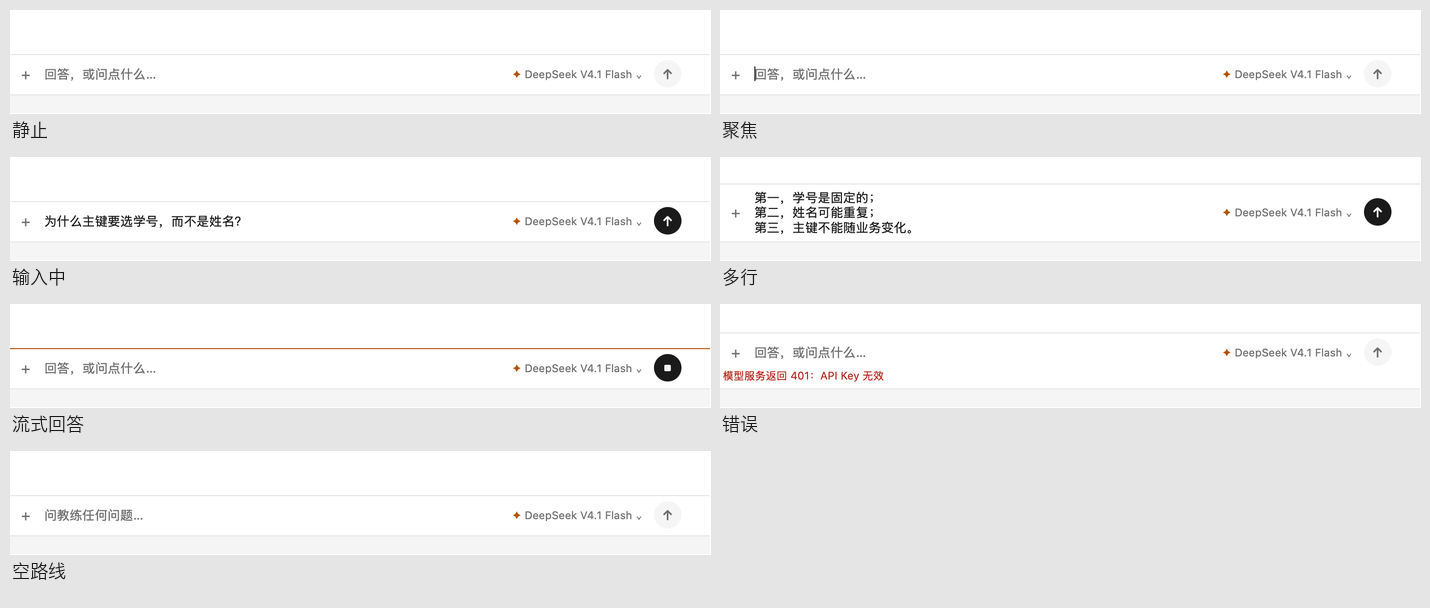
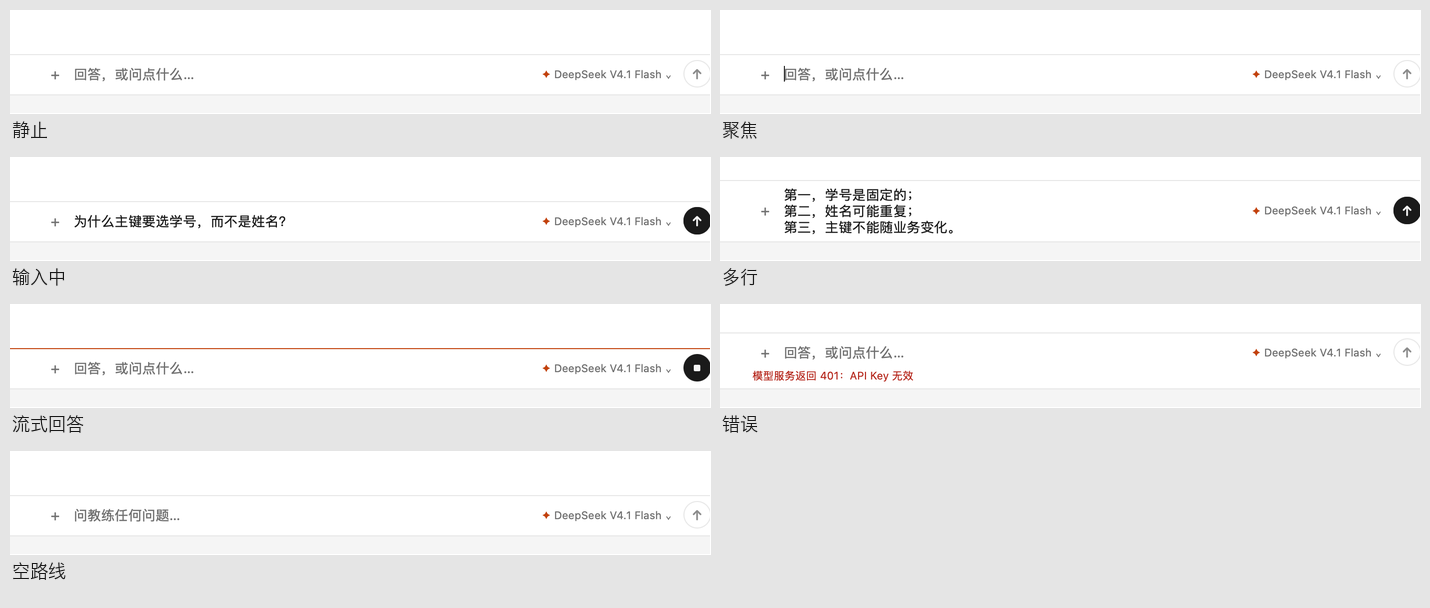
Give the tutor workspace a reading-first visual system
- serif lesson typography and amber margin rules
- heatmap panel with headline mastery, segmented progress, and cell detail
- warmer amber ramp across the workspace

diff --git a/desktop/chat.go b/desktop/chat.go
@@ -41,7 +41,7 @@ func (a *app) mdOptions(t *ui.Theme) *markdown.Options {
 	p := paletteFor(t.Dark)
 	theme := markdown.DefaultTheme(t)
 	theme.FontSize = fsRead
-	theme.LineHeight = 1.65
+	theme.LineHeight = 1.72
 	theme.Font = uiFont
 	theme.Text = p.body
 	theme.Muted = p.muted
@@ -56,6 +56,27 @@ func (a *app) mdOptions(t *ui.Theme) *markdown.Options {
 	theme.BlockSpacing = 0.6
 	a.md.Theme = theme
 	return a.md
+}
+
+func (a *app) mdOptionsSerif(t *ui.Theme) *markdown.Options {
+	p := paletteFor(t.Dark)
+	theme := markdown.DefaultTheme(t)
+	theme.FontSize = fsRead
+	theme.LineHeight = 1.8
+	theme.Font = serifFont
+	theme.Text = p.body
+	theme.Muted = p.muted
+	theme.Link = p.blue
+	theme.Strong = p.text
+	theme.Code = p.text
+	theme.CodeFont = monoFont
+	theme.CodeBackground = p.fieldBg
+	theme.CodeBlockBackground = p.surface2
+	theme.CodeBlockBorder = p.surface2
+	theme.CodeBlockRadius = 4
+	theme.BlockSpacing = 0.7
+	a.mdSerif.Theme = theme
+	return a.mdSerif
 }
 
 func (a *app) main(c *ui.Context, t *ui.Theme) {
@@ -81,7 +102,7 @@ func (a *app) topbar(c *ui.Context, t *ui.Theme) {
 			if title == "" {
 				title = "新对话"
 			}
-			ui.Text(c, title).FontSize(13).FontWeight(600).TextColor(p.text).MaxLines(1).DragWindow()
+			ui.Text(c, title).FontSize(fsRead).FontWeight(600).TextColor(p.text).MaxLines(1).DragWindow()
 			ui.Box(c).Grow(1).FillHeight().DragWindow()
 			if a.streaming {
 				ui.Spinner(c)
@@ -140,7 +161,7 @@ func (a *app) emptyChat(c *ui.Context, t *ui.Theme) {
 	p := paletteFor(t.Dark)
 	ui.Column(c).FillWidth().AlignItems(ui.Center).Gap(8).Children(func() {
 		ui.Text(c, "✦").FontSize(16).TextColor(p.blue)
-		ui.Text(c, "开始一段新的学习").FontSize(fsSection).FontWeight(600).TextColor(p.text)
+		serif(c, "开始一段新的学习").FontSize(fsDisplay).FontWeight(600).TextColor(p.text)
 		ui.Text(c, "告诉教练你想学什么，路线和热力图会在聊天里长出来。").
 			FontSize(fsUI).TextColor(p.muted).TextAlign(ui.Center).MaxWidth(420).LineHeight(1.5)
 		ui.Row(c).Gap(6).PaddingY(4).Children(func() {
@@ -190,13 +211,13 @@ func (a *app) lessonSection(c *ui.Context, t *ui.Theme, msg store.Message) {
 	p := paletteFor(t.Dark)
 	var payload lessonPayload
 	_ = json.Unmarshal([]byte(msg.Payload), &payload)
-	ui.Column(c).FillWidth().BorderWidth(1, 0, 0, 0).BorderColor(p.hairline).
-		Padding(10, 0).Gap(6).Children(func() {
+	ui.Column(c).FillWidth().BorderWidth(0, 0, 0, 2).BorderColor(p.blue).
+		Padding(8, 0, 2, 14).Gap(8).Children(func() {
 		a.kicker(c, t, payload.Kicker)
 		if payload.Title != "" {
-			ui.Text(c, payload.Title).FontSize(fsTitle).FontWeight(600).LineHeight(1.35).TextColor(p.text)
+			serif(c, payload.Title).FontSize(fsTitle).FontWeight(600).LineHeight(1.35).TextColor(p.text)
 		}
-		markdown.View(c, payload.Body, a.mdOptions(t)).FillWidth()
+		markdown.View(c, payload.Body, a.mdOptionsSerif(t)).FillWidth()
 		if payload.Code != "" {
 			ui.Box(c).FillWidth().Background(p.fieldBg).Radius(radiusBadge).Padding(8, 10).Children(func() {
 				ui.Text(c, payload.Code).FontSize(fsCaption).Font(monoFont).TextColor(p.body)
@@ -207,8 +228,8 @@ func (a *app) lessonSection(c *ui.Context, t *ui.Theme, msg store.Message) {
 				BorderWidth(0, 0, 0, 2).BorderColor(p.blue).Padding(8, 10).Children(func() {
 				ui.Column(c).FillWidth().Gap(3).Children(func() {
 					ui.Text(c, "主动回忆").FontSize(fsCaption).FontWeight(600).TextColor(p.blue)
-					ui.Text(c, payload.Recall.Prompt).FontSize(fsUI).FontWeight(600).TextColor(p.text)
-					ui.Text(c, "参考答案："+payload.Recall.Answer).FontSize(fsCaption).TextColor(p.muted)
+					ui.Text(c, payload.Recall.Prompt).FontSize(fsRead).FontWeight(600).TextColor(p.text)
+					ui.Text(c, "参考答案："+payload.Recall.Answer).FontSize(fsUI).TextColor(p.muted)
 				})
 			})
 		}
@@ -228,14 +249,14 @@ func (a *app) quizSection(c *ui.Context, t *ui.Theme, msg store.Message) {
 	p := paletteFor(t.Dark)
 	var payload quizPayload
 	_ = json.Unmarshal([]byte(msg.Payload), &payload)
-	ui.Column(c).FillWidth().BorderWidth(1, 0, 0, 0).BorderColor(p.hairline).
-		Padding(10, 0).Gap(8).Children(func() {
+	ui.Column(c).FillWidth().BorderWidth(0, 0, 0, 2).BorderColor(p.blue).
+		Padding(8, 0, 2, 14).Gap(8).Children(func() {
 		a.kicker(c, t, "小测")
 		for qi, q := range payload.Questions {
 			chosen, answered := a.quizChoices[q.ID]
 			ui.Column(c).FillWidth().Gap(4).Children(func() {
-				ui.Textf(c, "%d. %s", qi+1, q.Prompt).FontSize(fsRead).FontWeight(600).
-					LineHeight(1.5).TextColor(p.text)
+				serif(c, fmt.Sprintf("%d. %s", qi+1, q.Prompt)).FontSize(fsTitle).FontWeight(600).
+					LineHeight(1.45).TextColor(p.text)
 				for oi, option := range q.Options {
 					letter := string(rune('A' + oi))
 					correct := answered && oi == q.AnswerIndex
@@ -253,7 +274,7 @@ func (a *app) quizSection(c *ui.Context, t *ui.Theme, msg store.Message) {
 						Padding(3, 6).Radius(radiusBadge).Background(bg).Children(func() {
 						ui.Row(c).FillWidth().Gap(7).AlignItems(ui.Center).Children(func() {
 							ui.Text(c, letter).FontSize(fsCaption).Font(monoFont).TextColor(fg)
-							ui.Text(c, option).Grow(1).FontSize(fsUI).TextColor(fg).MaxLines(2)
+							ui.Text(c, option).Grow(1).FontSize(fsRead).TextColor(fg).MaxLines(2)
 							if correct {
 								ui.Text(c, "正确答案").FontSize(fsCaption).TextColor(p.blue)
 							} else if wrong {

diff --git a/desktop/theme.go b/desktop/theme.go
@@ -2,16 +2,21 @@ package main
 
 import "github.com/egoist/mygo/ui"
 
-// Type scale: 12 / 14 / 16 / 20 / 24 / 30.
-// Compact editor scale: meta 11 / UI 12 / reading 13 / title 14 / section 16.
+// Type scale: meta 11 / UI 12 / reading 14 / title 17 / section 20 / display 24.
 const (
 	fsCaption float32 = 11
 	fsUI      float32 = 12
-	fsRead    float32 = 13
-	fsTitle   float32 = 14
-	fsSection float32 = 16
-	fsDisplay float32 = 18
+	fsRead    float32 = 14
+	fsTitle   float32 = 17
+	fsSection float32 = 20
+	fsDisplay float32 = 24
 )
+
+const serifFont = "Songti SC, Noto Serif SC, Source Han Serif SC, Georgia, serif"
+
+func serif(c *ui.Context, s string) ui.Element {
+	return ui.Text(c, s).Font(serifFont)
+}
 
 // Shadcn radii: rounded-lg 8 (cards), rounded-md 6 (controls), rounded-sm 4 (badges).
 const (
@@ -21,9 +26,8 @@ const (
 )
 
 const (
-	uiFont    = "system-ui"
-	serifFont = "Songti SC, Noto Serif SC, Source Han Serif SC, Georgia, serif"
-	monoFont  = "SF Mono, Menlo, Consolas, monospace"
+	uiFont   = "system-ui"
+	monoFont = "SF Mono, Menlo, Consolas, monospace"
 )
 
 type palette struct {
@@ -76,10 +80,10 @@ func paletteFor(dark bool) palette {
 			faint:          ui.Hex("#8A8A8A"),
 			hairline:       ui.Hex("#303030"),
 			borderStrong:   ui.Hex("#4A4A4A"),
-			blue:           ui.Hex("#F59E0B"),
-			blueSoft:       ui.Hex("#3A2A14"),
+			blue:           ui.Hex("#FB923C"),
+			blueSoft:       ui.Hex("#3A2418"),
 			recallBg:       ui.Hex("#2A2118"),
-			blueLine:       ui.Hex("#5A3E1B"),
+			blueLine:       ui.Hex("#6B3F24"),
 			rust:           ui.Hex("#F97066"),
 			green:          ui.Hex("#4ADE80"),
 			rustSoft:       ui.Hex("#3A1D1A"),
@@ -111,9 +115,9 @@ func paletteFor(dark bool) palette {
 		faint:          ui.Hex("#8C8C8C"),
 		hairline:       ui.Hex("#E6E6E6"),
 		borderStrong:   ui.Hex("#D2D2D2"),
-		blue:           ui.Hex("#B45309"),
-		blueSoft:       ui.Hex("#FDF4EA"),
-		blueLine:       ui.Hex("#EAD5BF"),
+		blue:           ui.Hex("#C2410C"),
+		blueSoft:       ui.Hex("#FFF4ED"),
+		blueLine:       ui.Hex("#FED7AA"),
 		rust:           ui.Hex("#B42318"),
 		green:          ui.Hex("#16A34A"),
 		rustSoft:       ui.Hex("#FEF3F2"),
@@ -169,27 +173,23 @@ func appTheme(dark bool) *ui.Theme {
 	return t
 }
 
-func serif(c *ui.Context, s string) ui.Element {
-	return ui.Text(c, s).Font(serifFont)
-}
-
 // heatStyle returns the fill, border and text colors of a mastery tile.
 func heatStyle(mastery int, dark bool) (ui.Color, ui.Color, ui.Color) {
 	p := paletteFor(dark)
 	switch mastery {
 	case 1:
 		if dark {
-			return ui.Hex("#3A2C1C"), ui.Hex("#5A422A"), ui.Hex("#F2D9BC")
+			return ui.Hex("#442A1B"), ui.Hex("#6B4226"), ui.Hex("#F8C9A8")
 		}
-		return ui.Hex("#F5E2CC"), ui.Hex("#EAD5BF"), ui.Hex("#8A4B16")
+		return ui.Hex("#FCE7D6"), ui.Hex("#F5C7A5"), ui.Hex("#9A3412")
 	case 2:
 		if dark {
-			return ui.Hex("#6B4A24"), ui.Hex("#8A6434"), ui.Hex("#F7E6D2")
+			return ui.Hex("#8A4B24"), ui.Hex("#A65D2E"), ui.Hex("#FBE0C8")
 		}
-		return ui.Hex("#E4B988"), ui.Hex("#DDB98D"), ui.Hex("#6B3A10")
+		return ui.Hex("#F5B48A"), ui.Hex("#EA9A6A"), ui.Hex("#7C2D12")
 	case 3:
 		if dark {
-			return ui.Hex("#D97706"), ui.Hex("#D97706"), ui.Hex("#FFFFFF")
+			return ui.Hex("#EA580C"), ui.Hex("#EA580C"), ui.Hex("#FFFFFF")
 		}
 		return p.blue, p.blue, ui.Hex("#FFFFFF")
 	default:

diff --git a/desktop/route.go b/desktop/route.go
@@ -50,14 +50,28 @@ func (a *app) heatmapSection(c *ui.Context, t *ui.Theme, node store.Node) {
 		}
 	}
 	ui.Column(c).FillWidth().Gap(8).Children(func() {
-		ui.Text(c, node.Title).FontSize(fsSection).FontWeight(600).TextColor(p.text).MaxLines(2)
+		serif(c, node.Title).FontSize(fsSection).FontWeight(600).TextColor(p.text).MaxLines(2)
 		if len(node.Cells) == 0 {
 			ui.Text(c, "还没有热力图。开始这一节时教练会定义 3–9 个格子。").
 				FontSize(fsCaption).TextColor(p.faint).LineHeight(1.55)
 			return
 		}
-		ui.Textf(c, "%d / %d 格达到%s", lit, len(node.Cells), masteryLabels[node.Threshold]).
-			FontSize(fsUI).TextColor(p.faint)
+		ui.Row(c).FillWidth().Gap(6).AlignItems(ui.Center).Children(func() {
+			ui.Textf(c, "%d", lit).FontSize(fsDisplay).FontWeight(600).TextColor(p.text)
+			ui.Textf(c, "/ %d 格达到%s", len(node.Cells), masteryLabels[node.Threshold]).
+				FontSize(fsCaption).TextColor(p.faint)
+		})
+		ui.Row(c).FillWidth().Height(4).Gap(3).Children(func() {
+			for _, skill := range node.Cells {
+				cell := skill
+				seg := ui.Box(c).Grow(1).Height(4).Radius(2).Background(p.fieldBg)
+				if cell.Mastery >= node.Threshold {
+					seg.Background(p.blue)
+				} else if cell.Mastery > 0 {
+					seg.Background(p.blueLine)
+				}
+			}
+		})
 		ui.Grid(c).FillWidth().Columns(7).Gap(4).Children(func() {
 			for _, skill := range node.Cells {
 				cell := skill

diff --git a/desktop/sidebar.go b/desktop/sidebar.go
@@ -58,7 +58,7 @@ func (a *app) sidebar(c *ui.Context, t *ui.Theme) {
 						row := ui.ButtonBase(c.Key("route:" + g.ID)).Grow(1).Height(26).Radius(radiusBadge).
 							PaddingX(6).Children(func() {
 							ui.Row(c).FillWidth().AlignItems(ui.Center).Children(func() {
-								ui.Text(c, g.Title).FontSize(fsUI).FontWeight(weight).MaxLines(1).
+								ui.Text(c, g.Title).FontSize(fsRead).FontWeight(weight).MaxLines(1).
 									TextColor(p.sidebarText)
 								ui.Spacer(c)
 								ui.Textf(c, "%d%%", g.Percent()).FontSize(fsCaption).TextColor(p.faint)

diff --git a/desktop/app.go b/desktop/app.go
@@ -39,6 +39,7 @@ type app struct {
 
 	draft      string
 	md         *markdown.Options
+	mdSerif    *markdown.Options
 	chatList   ui.ListState
 	composer   ui.Handle
 	focusDraft bool
@@ -69,6 +70,7 @@ type app struct {
 func newApp(st *store.Store) *app {
 	a := &app{store: st, quizChoices: map[string]int{}, routeOpen: true}
 	a.md = &markdown.Options{ShareSelection: true}
+	a.mdSerif = &markdown.Options{ShareSelection: true}
 	a.chatList.FollowEnd = true
 	a.chatList.FollowAnimation = &ui.Smooth
 	a.chatList.Key = func(row int) any {

diff --git a/DESIGN.md b/DESIGN.md
@@ -23,20 +23,20 @@
 - `text` / `body`：标题与正文。`#1A1A1A` / `#3A3A3A`
 - `muted` / `faint`：辅助信息、占位。`#6F6F6F` / `#8C8C8C`
 - `hairline`：面板边界、分隔线。`#E6E6E6`
-- `blue`：唯一强调色，琥珀色。`#B45309`；只用于热力图、当前节点、当前选择、AI 星标
+- `blue`：唯一强调色，橙琥珀。`#C2410C`；只用于热力图、当前节点、当前选择、AI 星标
 - `blueSoft` / `blueLine`：琥珀浅底与边框。`#FDF4EA` / `#EAD5BF`
 - `rust`：错误与删除。`#B42318`
 - `navActive` / `navHover`：侧栏与路线行的选中/悬停灰。`#ECECEC` / `#F1F1F1`
 - `fieldBg`：输入条、气泡、按钮悬停。`#F5F5F5`
 
-字体：系统无衬线；代码等宽。
+字体：系统无衬线；课文标题/正文和右侧节点标题用宋体；代码等宽。
 
 - 元信息 11
 - 控件、列表、选项 12
-- 正文、聊天、课文 13
-- 卡片与节点标题 14
-- 区块标题 16
-- 空态标题 18
+- 正文、聊天、课文 14
+- 卡片与课文标题 17
+- 区块与右侧节点标题 20
+- 空态标题与大数字 24
 
 形状与布局：
 
@@ -57,7 +57,8 @@
 
 - **侧栏**：260px 浅灰；顶部 `SearchField` 过滤节点；路线行显示标题与进度、右侧 `×` 删除；下方展示当前路线的全部阶段和节点，点击节点在右侧查看其热力图。
 - **主面板**：白色圆角；40px 顶栏显示当前路线标题；消息与课程/小测是文档段落，不套卡片、不加头像。
-- **路线面板（右侧）**：白色圆角；展示当前/选中节点的标题、阈值进度、小方块热力图与图例；不放路线切换和节点列表。
+- **路线面板（右侧）**：白色圆角；宋体节点标题、大号达标数字 + 分段进度、30px 小方块热力图、格子明细与图例；不放路线切换和节点列表。
+- **课文与小测**：左侧 2px 琥珀页边线；课文标题和正文用宋体，正文 14px / 1.8 行高；主动回忆块用浅橙描边，不叠加第二条规则线。
 - **输入区**：平栏；左 `+` 导入 .txt/.md；中间输入；右侧模型选择 `✦ DeepSeek V4.1 Flash ⌄` 与 28px 圆形发送/停止按钮。
 - **搜索**：会话标题不区分大小写包含匹配；清空恢复全部。
 - **删除**：路线删除会连带节点、格子、相关会话和消息；删除当前路线后新建一条空路线。
@@ -79,6 +80,7 @@
 - 2026-11-05：改成截图的简洁风格：中性灰画布、白色圆角面板、浅灰侧栏、琥珀色信号（用户确认）
 - 2026-11-05：输入区从胶囊改为面板底部平栏；去掉深色块（用户确认）
 - 2026-11-05：左侧展示完整学习路线（路线 + 全部节点），右侧展示当前/选中节点的热力图；不再展示会话（用户确认）
+- 2026-11-05：课文采用衬线阅读 + 琥珀页边线，右侧热力图升级为“大数字 + 分段进度 + 方块 + 明细”的仪表（用户确认）
 - 2026-11-05：节点状态用绿点/对号/留空，去掉“学习中/待学”文字（用户确认）
 - 2026-11-05：路线右侧常驻 `×` 删除（用户确认）
 - 2026-11-05：教学一次只问一个问题，短讲解 + 检查问题；课时卡可选、限长；小测一次一题（用户确认）

diff --git a/README.md b/README.md
@@ -9,8 +9,9 @@ JustLearn 是一个原生桌面的 AI 私人教师：在聊天里学、在聊天
 ## 功能
 
 - **聊天式教学**：一次只问一个问题，讲一小段、问一个检查问题，答完再继续；不会一次倒完整节课。路线放在右侧，聊天里只给一句摘要。
-- **知识热力图**：每个节点 3–9 个知识格子，按 0–3 级掌握度着色；所有格子达到阈值后前进到下一节。
+- **知识热力图**：每个节点 3–9 个知识格子，按 0–3 级掌握度着色；右侧用大号达标数字、分段进度和方块热力图展示当前节点。
 - **要点卡可选**：只有用户通过几轮问答弄懂一个侧面后，才生成一张 200–300 字的要点卡，不把整节课写成文章。
+- **阅读优先**：课文标题和正文用宋体，配 2px 琥珀色页边线；聊天与控件保持无衬线。
 - **小测**：一次一题，答题后行内给出正确答案与解析，并把真实回答写回热力图证据；不会一口气发整份测验。
 - **路线与节点**：左侧列出学习路线和全部节点，点击节点在右侧查看热力图；节点状态用绿点（学习中）、对号（掌握）和留空（未学）表示。
 - **搜索与管理**：侧栏搜索路线；路线右侧的 `×` 可删除（会清理节点、格子和相关消息）。
